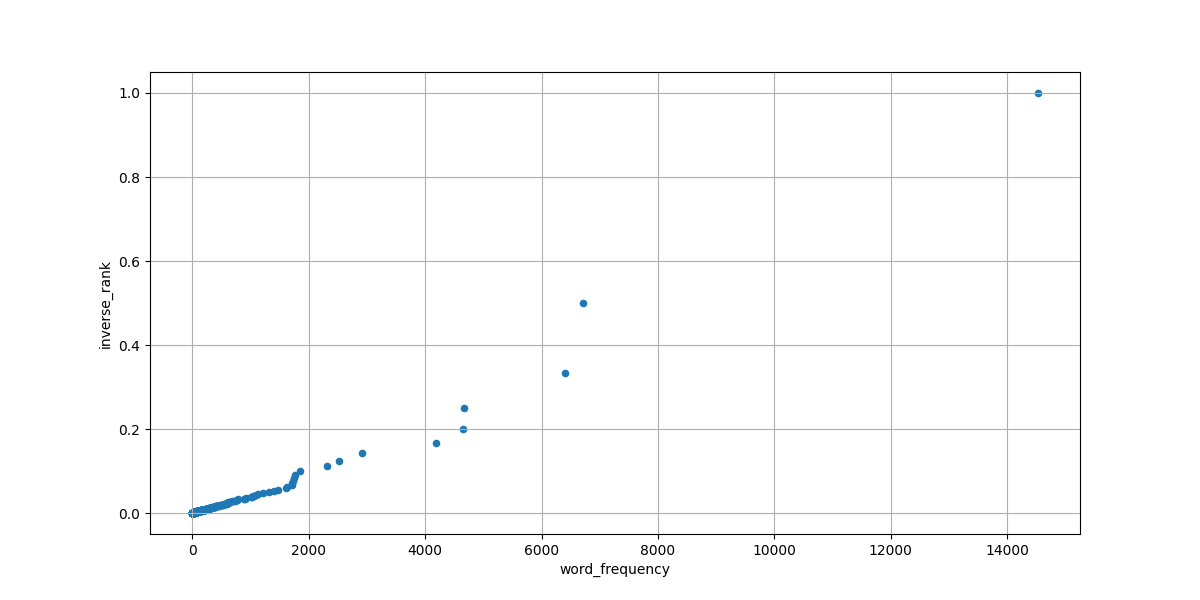
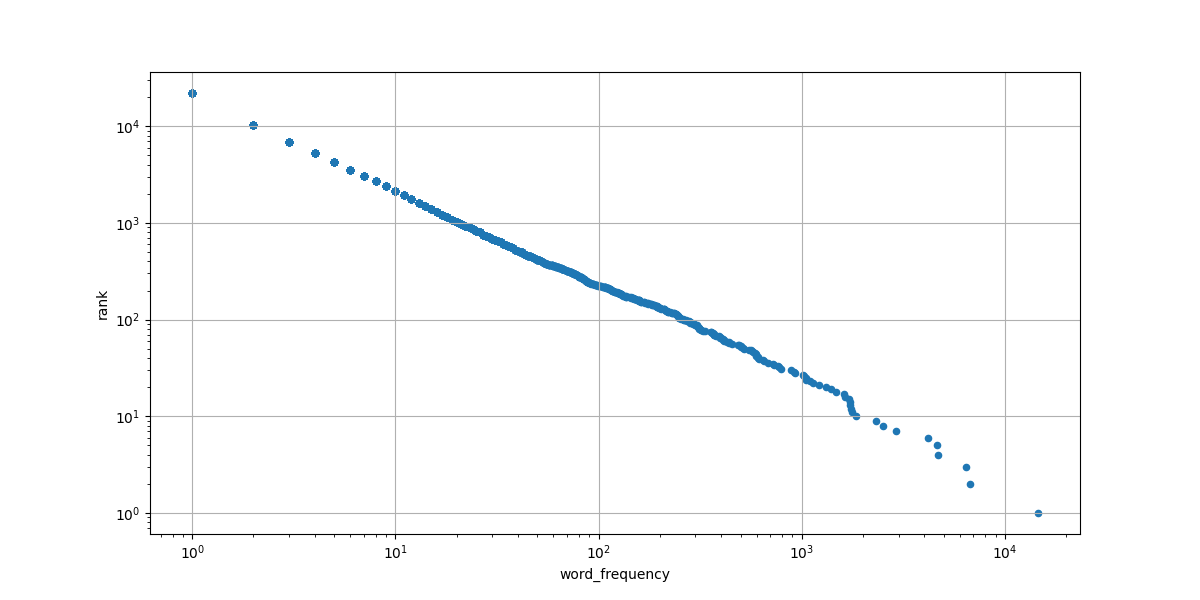
Plot frequency against rank on log-log axes

diff --git a/bin/plotcounts.py b/bin/plotcounts.py
@@ -10,12 +10,10 @@ def main(args):
     df["rank"] = df["word_frequency"].rank(ascending=False, method="max")
     df["inverse_rank"] = 1 / df["rank"]
 
-    scatplot = df.plot.scatter(
-        x="word_frequency", y="inverse_rank", figsize=[12, 6], grid=True, xlim=args.xlim
+    ax = df.plot.scatter(
+        x="word_frequency", y="rank",loglog=True, figsize=[12, 6], grid=True, xlim=args.xlim
     )
-
-    fig = scatplot.get_figure()
-    fig.savefig(args.outfile)
+    ax.figure.savefig(args.outfile)
 
 
 if __name__ == "__main__":
